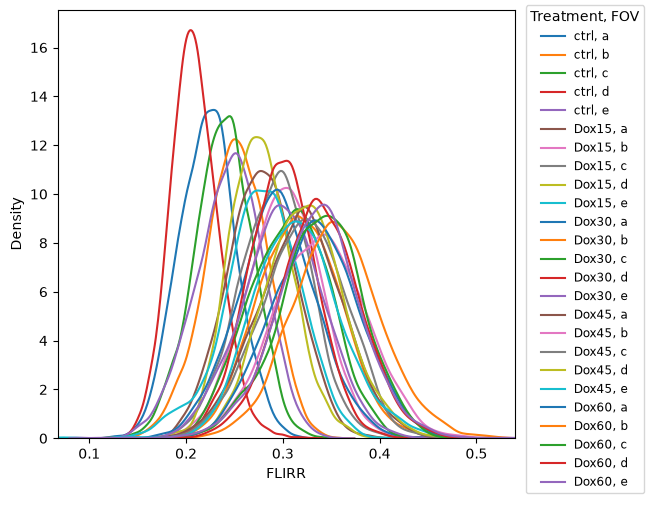
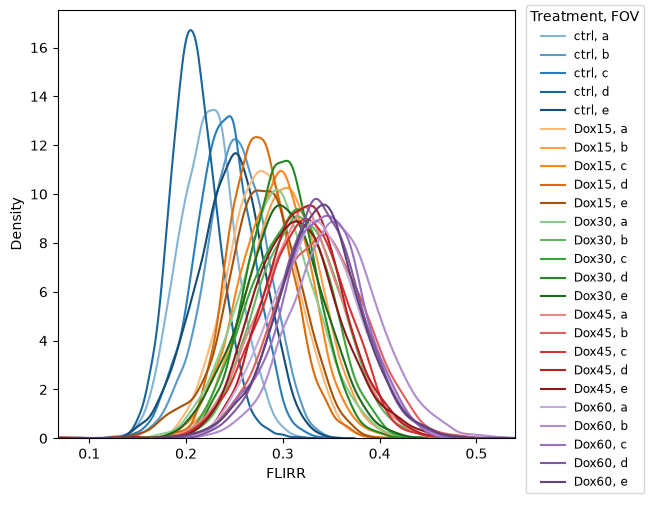
KDE: colour by the first grouping column, shades for more than 4 values of the second; no repeating colours

diff --git a/flim/tools/plot.py b/flim/tools/plot.py
@@ -1260,8 +1260,42 @@ class LinePlot(_Plot, Tool[LinePlotConfig]):
         return figure
 
 
+def _distinct_colors(n: int) -> list[tuple[float, float, float]]:
+    """Return `n` colours that differ from each other.
+
+    Up to 10: seaborn's default palette. More: evenly spaced hues (seaborn's `husl`
+    palette), so that no colour repeats.
+    """
+    return sns.color_palette(n_colors=n) if n <= 10 else sns.color_palette("husl", n)
+
+
+def _shades(color: tuple[float, float, float], n: int) -> list[tuple[float, float, float]]:
+    """Return `n` shades of a colour, from lighter to darker."""
+    if n == 1:
+        return [tuple(color)]
+    shades = []
+    for i in range(n):
+        f = -0.45 + 0.8 * i / (n - 1)  # < 0: towards white, > 0: towards black
+        target = 0.0 if f > 0 else 1.0
+        shades.append(tuple(c + (target - c) * abs(f) for c in color))
+    return shades
+
+
+def _level_values(data: pd.DataFrame, column: str) -> list[Any]:
+    """Return a grouping column's values in the order of `groupby`."""
+    if isinstance(data[column].dtype, pd.CategoricalDtype):
+        return list(data[column].cat.categories)
+    return sorted(data[column].dropna().unique())
+
+
 def group_styles(data: pd.DataFrame, groups: Sequence[str]) -> list[dict[str, Any]]:
     """Return the line style of each group, the same in every plot.
+
+    With two grouping columns, the colour shows the value of the first column and
+    the line style the value of the second (up to 4 values); with more values of the
+    second column, shades of the first column's colour, from lighter to darker. With
+    one grouping column, or more than two, each group has its own colour. Colours
+    never repeat (`_distinct_colors`).
 
     Args:
         data: The table.
@@ -1269,24 +1303,20 @@ def group_styles(data: pd.DataFrame, groups: Sequence[str]) -> list[dict[str, An
 
     Returns:
         The matplotlib style arguments of each group, in the order of
-        `data.groupby(groups, observed=False)`: a colour; for two grouping columns
-        whose second has at most 4 values, a colour per value of the first column and
-        a line style per value of the second.
+        `data.groupby(groups, observed=False)`.
     """
     if len(groups) == 2:
-        values = [
-            data[g].cat.categories if hasattr(data[g], "cat") else data[g].unique()
-            for g in groups
-        ]
-        if len(values[1]) <= len(DEFAULT_LINESTYLES):
-            colors = sns.color_palette(n_colors=len(values[0]))
+        first, second = (_level_values(data, g) for g in groups)
+        colors = _distinct_colors(len(first))
+        if len(second) <= len(DEFAULT_LINESTYLES):
             return [
                 {"color": c, "linestyle": ls}
                 for c in colors
-                for ls in DEFAULT_LINESTYLES[: len(values[1])]
+                for ls in DEFAULT_LINESTYLES[: len(second)]
             ]
+        return [{"color": shade} for c in colors for shade in _shades(c, len(second))]
     n = data.groupby(list(groups), observed=False).ngroups
-    return [{"color": c} for c in sns.color_palette(n_colors=n)]
+    return [{"color": c} for c in _distinct_colors(n)]
 
 
 def grouped_kdeplot(

diff --git a/tests/core/test_plot_tools.py b/tests/core/test_plot_tools.py
@@ -1065,3 +1065,33 @@ def test_stacked_histogram_is_in_percent_of_all_rows(style, stacked):
     (table,) = [v for k, v in FrequencyHistogram()(data, config=config).items() if k.startswith("Table")]
     assert list(table["a [rel %]"]) == [50.0, 25.0]
     assert list(table["b [rel %]"]) == [25.0, 0.0]  # 0.6.2: the stack heights, 75 and 25
+
+
+def _groups_table(first, second=None):
+    columns = {"A": pd.Categorical([a for a in first for _ in (second or [None])])}
+    if second:
+        columns["B"] = pd.Categorical([b for _ in first for b in second])
+    return pd.DataFrame(columns)
+
+
+def test_group_styles_two_columns_colour_by_the_first():
+    from flim.tools.plot import group_styles
+
+    # second column with up to 4 values: one colour per value of A, a line style per B
+    styles = group_styles(_groups_table("xyz", ["1", "2", "3"]), ["A", "B"])
+    assert [s["color"] for s in styles[:3]] == [styles[0]["color"]] * 3
+    assert len({s["linestyle"] for s in styles[:3]}) == 3
+    # more values (0.6.2: 25 curves in 10 repeating colours): shades of A's colour
+    styles = group_styles(_groups_table("vwxyz", list("abcde")), ["A", "B"])
+    colors = [s["color"] for s in styles]
+    assert len(set(colors)) == 25  # no colour repeats
+    first = np.array(colors[:5])
+    assert list(np.diff(first.sum(axis=1)) < 0) == [True] * 4  # lighter to darker
+    assert "linestyle" not in styles[0]
+
+
+def test_group_styles_more_than_ten_groups_dont_repeat_colours():
+    from flim.tools.plot import group_styles
+
+    styles = group_styles(_groups_table([f"g{i:02d}" for i in range(12)]), ["A"])
+    assert len({s["color"] for s in styles}) == 12

diff --git a/docs/userguide/plots/kde.md b/docs/userguide/plots/kde.md
@@ -15,7 +15,7 @@ The `KDE` tool creates kernel density estimate (KDE) plots of grouped data. A KD
 
 3. In the `Configuration: KDE` dialog, select the grouping and the features to plot. You can group the data by the table's category columns, here `Treatment`, `FOV` and `Cell`. The features are the columns with numbers, such as `FAD a1`.
 
-    Each plot has one curve for each combination of the values of the grouping columns. With 2 grouping columns, the color shows the value of the 1st column and the line style the value of the 2nd (if the 2nd has at most 4 values). Otherwise each curve has its own color. Without grouping, each plot has one curve of all rows. The curves and the x axis cover only the range of the feature's values in the data.
+    Each plot has one curve for each combination of the values of the grouping columns. With 2 grouping columns, the color shows the value of the 1st column. The line style shows the value of the 2nd column, if it has at most 4 values. With more values, shades of the color show it, from lighter to darker. With 1 grouping column, or with 3 or more, each curve has its own color. Without grouping, each plot has one curve of all rows. The curves and the x axis cover only the range of the feature's values in the data.
 
     `Single figure` draws the plots of all features as tiles of one figure. `Plots per row` sets how many tiles are in each row (default 5; 0: about as many rows as columns). Without `Single figure`, each feature gets its own figure.
 
